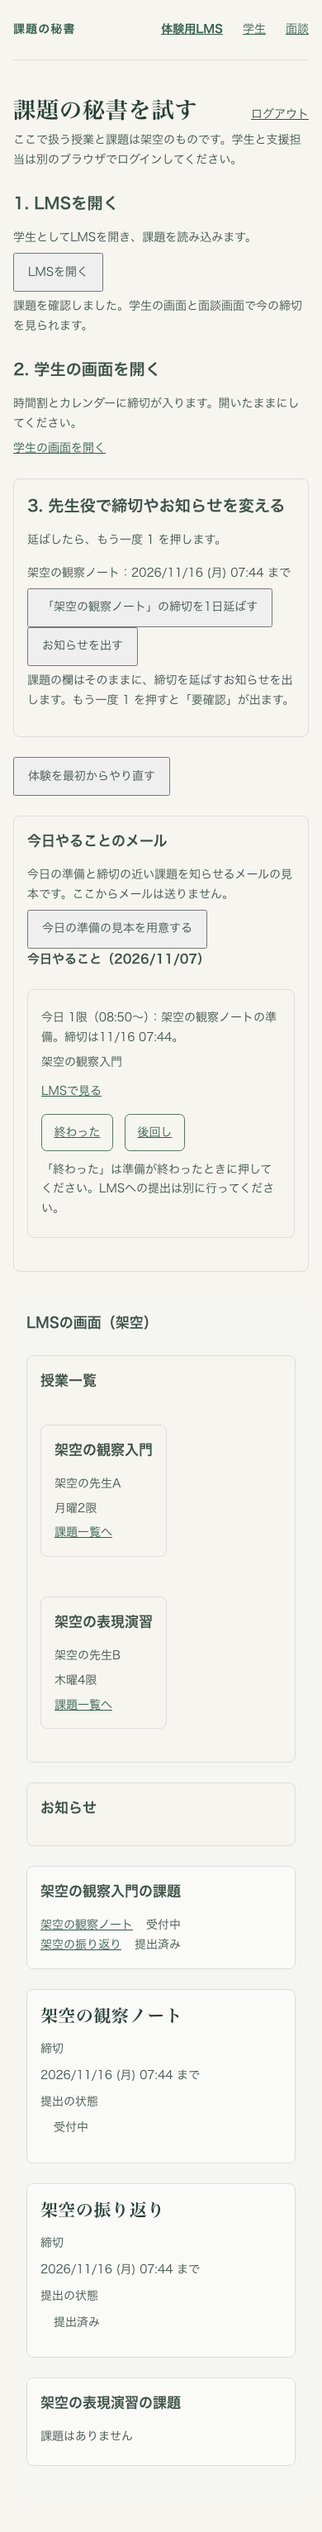
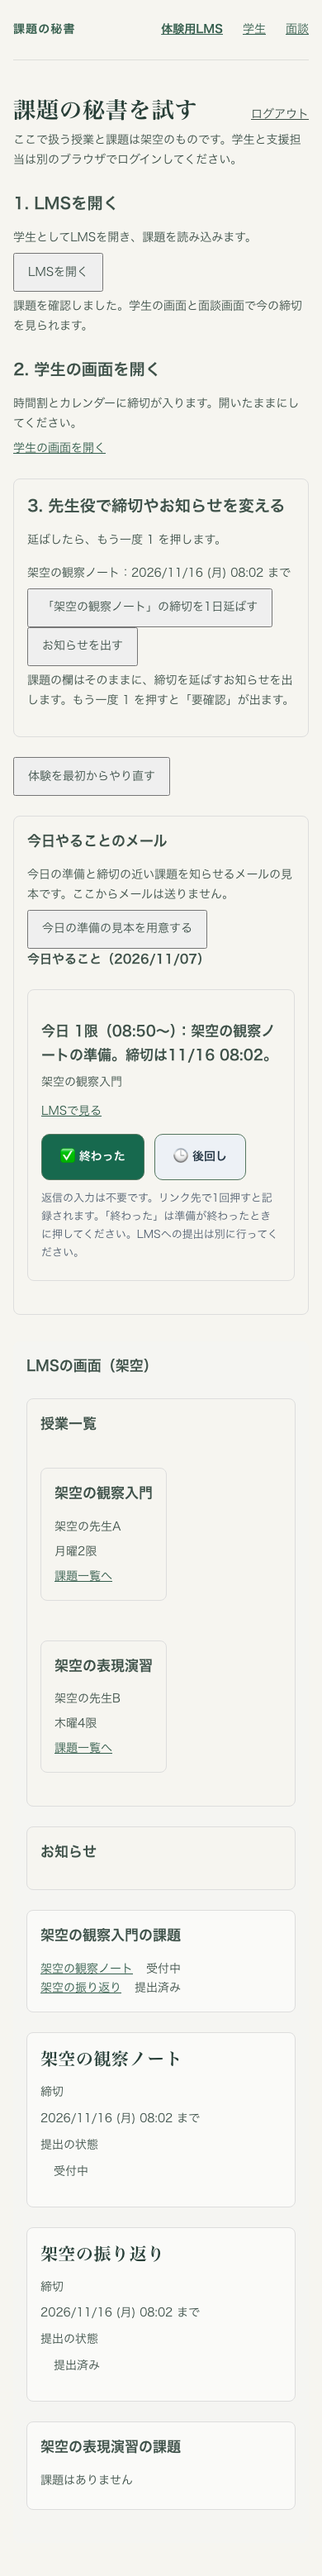
Fix digest browser link names and refresh mail screenshots

diff --git a/docs/records/2026-11-07-issue-124-review.md b/docs/records/2026-11-07-issue-124-review.md
@@ -1,0 +1,26 @@
+# PR #126 のレビュー対応（2026-11-07）
+
+Issue #124、Claudeの `request-changes`（対象head `0afd9af`）への対応。`origin/main` の `26eaa3a`（PR #122取り込み済み）をrebaseせずmergeし、merge commit `2974b52` に保存した。PRのmergeは行わない。
+
+## 変更と確認
+
+- `packages/server/src/digest.ts`：mainとの差分は `mailNote` の1行だけ。`mailButton`・`mailButtonStyle`・色・「✅ 終わった」「🕒 後回し」はmainのまま。準備の完了とLMSへの提出が別の操作である説明を維持した。
+- `packages/web/tests/digest.browser.mjs`：メール内のリンク名7か所を絵文字付きに合わせた。変更前は62行目の「後回し」の待機が15秒でタイムアウトすることを再現した。見本・操作・待機時間・判定条件は変更していない。
+- メール写真を同じブラウザ試験で撮り直し、[1280px](2026-11-07-issue-124/morning-mail-wide.png)・[390px](2026-11-07-issue-124/morning-mail-narrow.png)を差し替えた。両方を開き、ボタン2つの色・絵文字・説明文を確認した。
+
+## 試験
+
+ローカルのAuth・Firestoreエミュレーターと既存PlaywrightのChromiumを使用。通常ポートは別作業が使用中のため、全体検査はFirestore 8124、digest・sessionは8125/Auth 9125、studentは8126/Auth 9126へ分離した。`firebase.json` は全体検査後に元へ戻した。student試験は固定8085接続を環境変数の接続へ差し替えた一時的な写しで、同じ入力・操作・判定を実行した。既存プロセスと実物のLMS・Google・Gmailは操作していない。
+
+| 検査 | 結果 |
+|---|---|
+| `pnpm typecheck && pnpm lint && pnpm test && pnpm build && pnpm progress --check && pnpm check:samples` | 全6検査成功。810試験成功・失敗0、通常コマンドで60件skip。見本17ファイル成功。buildの既存chunkサイズ警告は残る |
+| `pnpm --filter server exec vitest run tests/digest.test.ts` | 13件成功（PR #122のボタンの試験を含む） |
+| `node packages/web/tests/run-digest-browser.mjs` | 修正後10操作成功・ブラウザ例外0。後回し・完了・再送・古いリンクの競合・本人の認証を確認。1280px/390pxで横はみ出しなし |
+| `node packages/web/tests/student.browser.mjs`（検査用の写し） | 成功。既存操作・終了欄・過去の学期・幅変更・ログアウトを確認 |
+| `node packages/web/tests/session.browser.mjs` | 26操作成功・ブラウザ例外0 |
+| `pnpm progress --write` | 全体31/43・必須29/39を維持。新たに満たしたC番号はない |
+
+## 残ること
+
+M6は未測定。今回も日本時間8時台のため、Issue指定の9時以降の測定をmerge前に行う。比較元はmainのPLANにあるローカル8/8（2026-11-07、Issue #101）。初回の[文言点検の記録](2026-11-07-issue-124.md)は、その時点の結果として残す。Claudeによる再確認とmergeが残る。
